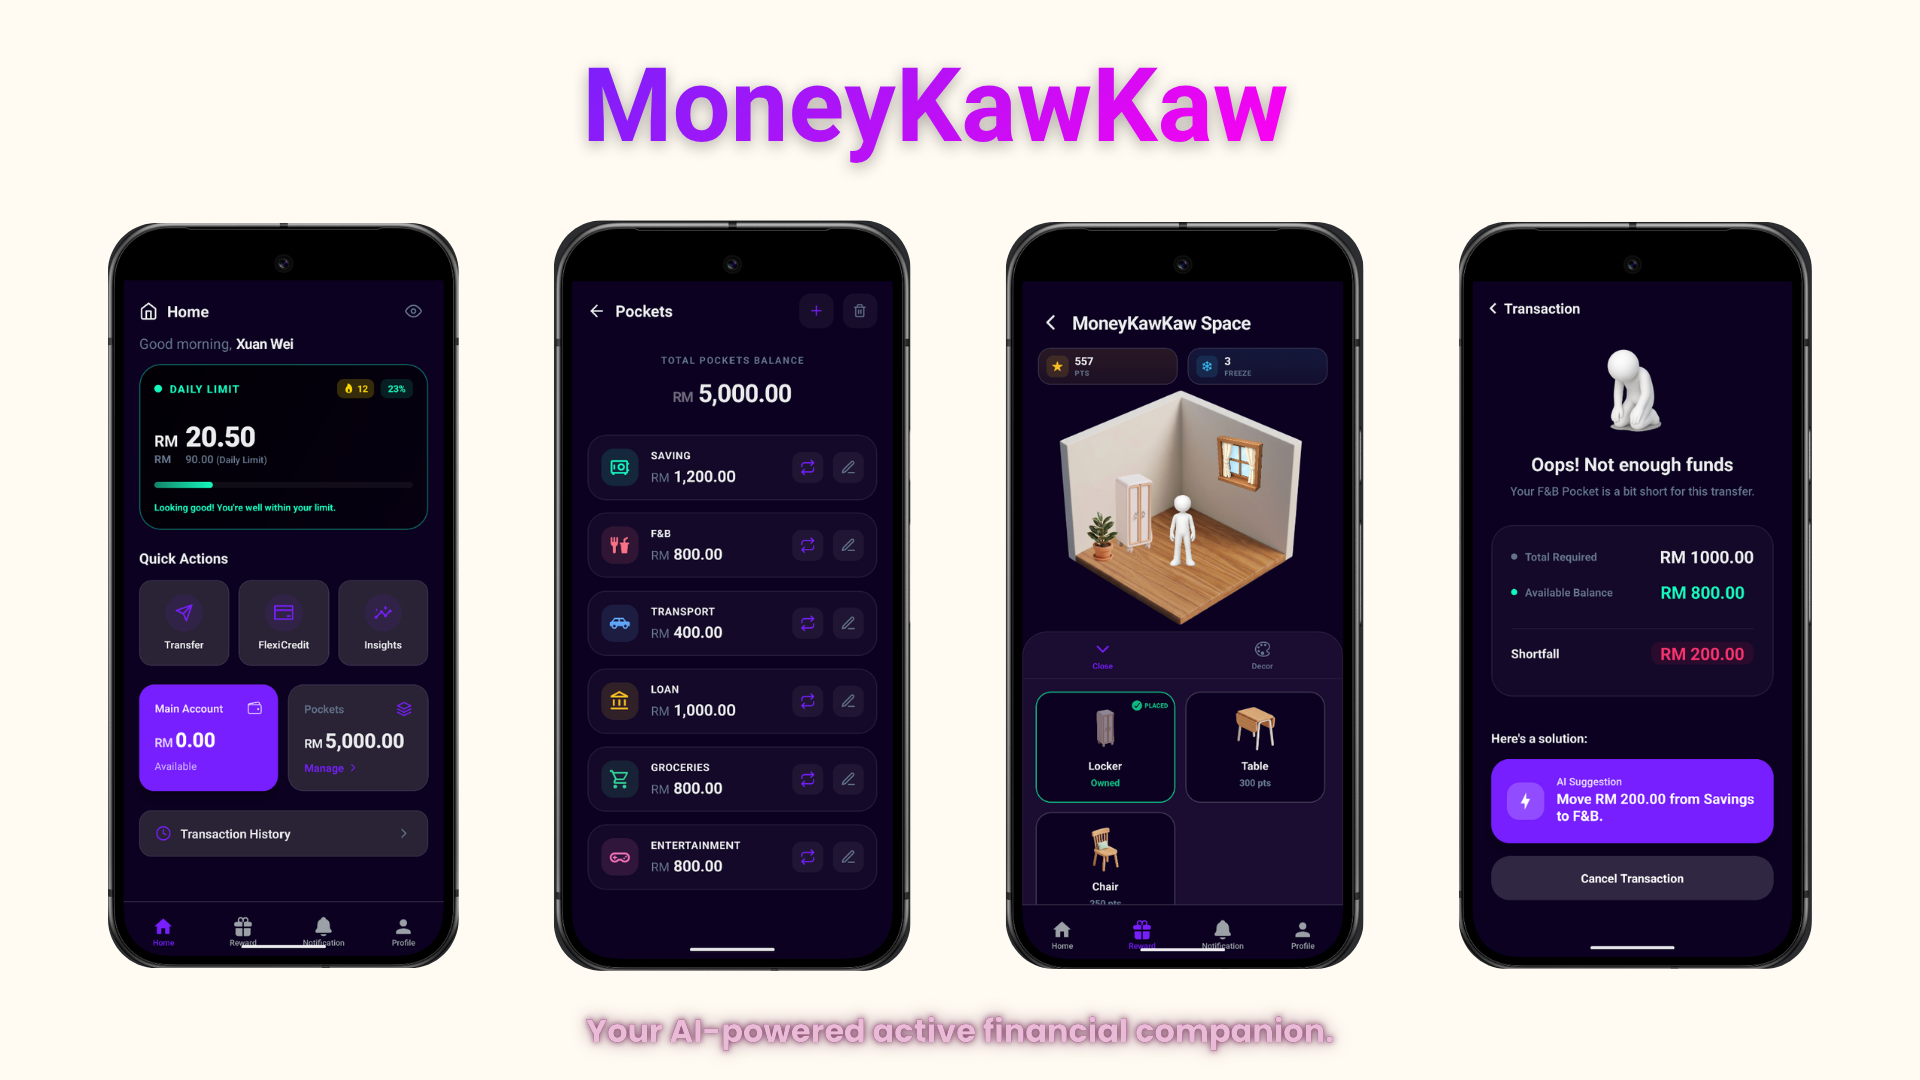
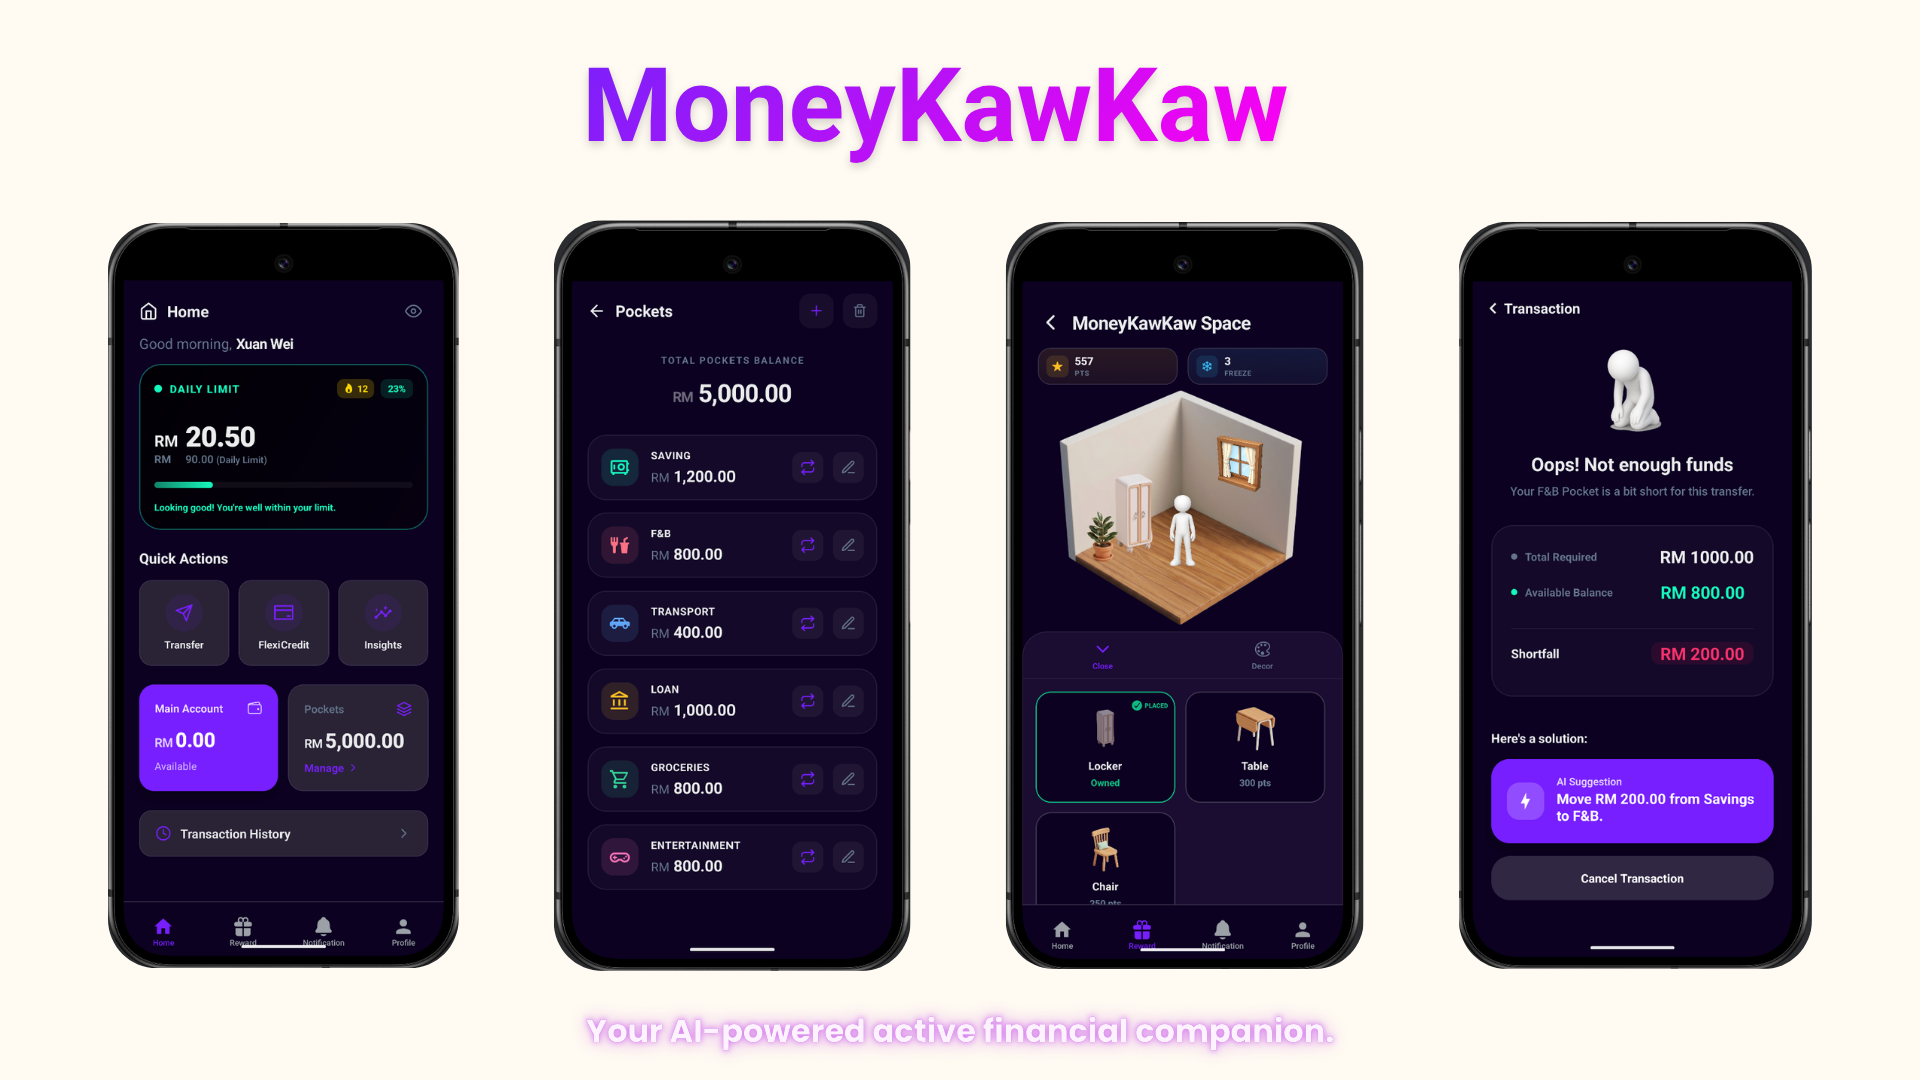
readme

diff --git a/README.md b/README.md
@@ -3,21 +3,15 @@
 
 This is the solution for UTMxHackathon 2026 for Case Study 2: The Youth Resilience Challenge, presented by Team Protect Liver.  
 
----
-
 ## 📌 Overview
 
 **MoneyKawKaw** is an AI-powered active financial companion integrated within **GXBank** designed to transform traditional passive banking into an active financial habit builder. 
-
----
 
 ## ⚠️ The Problem: The Malaysian Youth Debt Trap
 Many young Malaysians struggle with financial literacy and easily fall into debt. 
 * **Rising Bankruptcy:** 15% of all bankruptcy cases involve youths aged 34 and below.
 * **Debt Drivers:** Personal loans heavily drive youth insolvency, while low financial literacy leads to "lazy" budgeting habits.
 * **Passive Tools:** Traditional banking apps are passive because they only store data instead of actively helping users manage their money.
-
----
 
 ## 💡 Our Solution & Key Features
 
@@ -43,8 +37,6 @@ MoneyKawKaw manages money effortlessly by replacing static charts and overwhelmi
 * **Healthy Streaks:** Users earn points by maintaining healthy financial streaks, such as staying within their daily budget and reviewing financial summaries.
 * **Redemption Ecosystem:** Points can be redeemed to decorate a virtual **MoneyKawKaw Space** or exchanged for external partner vouchers and cashback.
 
----
-
 ## 🧠 Intelligence & System Logic
 
 MoneyKawKaw combines advanced machine learning, large language models, and deterministic rule-based checks:
@@ -53,14 +45,10 @@ MoneyKawKaw combines advanced machine learning, large language models, and deter
 * **Large Language Models (Decision Orchestration):** Translates raw predicted numbers into intelligent financial decisions, such as automatically suggesting budget reductions in non-essential categories (e.g., reducing entertainment spending from RM300 to RM200) to absorb necessary costs.
 * **Rule-Based System (Financial Safety Checks):** Applies strict financial constraints to verify that total allocated expenses (Food + Travel + Entertainment + Rent + Savings) remain strictly within the user's valid income limits.
 
----
-
 ## 🎯 Who Is It For?
 MoneyKawKaw is targeted primarily at **students** relying on allowances or PTPTN, and **fresh graduates** earning between RM2,500 and RM3,500. 
 
 Unlike traditional apps that require heavy self-discipline and manual budgeting, MoneyKawKaw steps in daily with automated guidance and friction. This builds proactive habits, making users statistically less likely to fail at repaying loans.
-
----
 
 ## Run the project
 1. Navigate to the app directory: